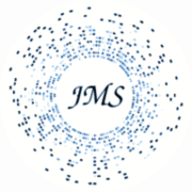
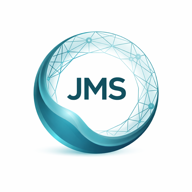
Update branding assets and switch to Umami analytics
- Replace favicon and app icons with new logo (center-cropped)
- Add favicon-16x16, favicon-32x32, favicon-48x48 PNG variants
- Update favicon.ico with multi-size format (16, 32, 48px)
- Regenerate apple-touch-icon (180x180) and PWA icons (192, 512)
- Convert new hero image to WebP (90% size reduction)
- Replace Plausible with Umami Cloud analytics (free tier)
- Update favicon references in all HTML templates

diff --git a/_layouts/post.html b/_layouts/post.html
@@ -7,8 +7,10 @@
   <meta name="viewport" content="width=device-width, initial-scale=1.0">
   <title>{{ page.title }} | {{ site.title }}</title>
   <meta name="description" content="{{ page.description | default: site.description }}">
-  <link rel="icon" href="{{ '/assets/img/apple-touch-icon.png' | relative_url }}">
-  <link rel="apple-touch-icon" href="{{ '/assets/img/apple-touch-icon.png' | relative_url }}">
+  <link rel="icon" type="image/x-icon" href="{{ '/assets/img/favicon.ico' | relative_url }}">
+  <link rel="icon" type="image/png" sizes="32x32" href="{{ '/assets/img/favicon-32x32.png' | relative_url }}">
+  <link rel="icon" type="image/png" sizes="16x16" href="{{ '/assets/img/favicon-16x16.png' | relative_url }}">
+  <link rel="apple-touch-icon" sizes="180x180" href="{{ '/assets/img/apple-touch-icon.png' | relative_url }}">
 
   <!-- Open Graph -->
   <meta property="og:title" content="{{ page.title }}">
@@ -419,14 +421,8 @@
       }
     }
   </style>
-  <!-- Privacy-friendly analytics by Plausible -->
-  <script async src="https://plausible.io/js/pa-2bTiM_XkGvY1gCv_2pJzp.js"></script>
-  <script>
-    window.plausible = window.plausible || function () { (plausible.q = plausible.q || []).push(arguments) }, plausible.init = plausible.init || function (i) { plausible.o = i || {} };
-    plausible.init();
-    // Track language
-    plausible('pageview', {props: {lang: '{{ lang }}'}});
-  </script>
+  <!-- Privacy-friendly analytics by Umami -->
+  <script defer src="https://cloud.umami.is/script.js" data-website-id="065913f4-78fe-490e-aa4a-a840fdcf56f1"></script>
 </head>
 <body>
   <header>

diff --git a/_layouts/blog.html b/_layouts/blog.html
@@ -7,8 +7,10 @@
   <meta name="viewport" content="width=device-width, initial-scale=1.0">
   <title>{{ t.blog.title }} | {{ site.title }}</title>
   <meta name="description" content="{{ t.blog.subtitle | default: site.description }}">
-  <link rel="icon" href="{{ '/assets/img/apple-touch-icon.png' | relative_url }}">
-  <link rel="apple-touch-icon" href="{{ '/assets/img/apple-touch-icon.png' | relative_url }}">
+  <link rel="icon" type="image/x-icon" href="{{ '/assets/img/favicon.ico' | relative_url }}">
+  <link rel="icon" type="image/png" sizes="32x32" href="{{ '/assets/img/favicon-32x32.png' | relative_url }}">
+  <link rel="icon" type="image/png" sizes="16x16" href="{{ '/assets/img/favicon-16x16.png' | relative_url }}">
+  <link rel="apple-touch-icon" sizes="180x180" href="{{ '/assets/img/apple-touch-icon.png' | relative_url }}">
 
   {% include head-hreflang.html %}
 
@@ -275,14 +277,8 @@
       }
     }
   </style>
-  <!-- Privacy-friendly analytics by Plausible -->
-  <script async src="https://plausible.io/js/pa-2bTiM_XkGvY1gCv_2pJzp.js"></script>
-  <script>
-    window.plausible = window.plausible || function () { (plausible.q = plausible.q || []).push(arguments) }, plausible.init = plausible.init || function (i) { plausible.o = i || {} };
-    plausible.init();
-    // Track language
-    plausible('pageview', {props: {lang: '{{ lang }}'}});
-  </script>
+  <!-- Privacy-friendly analytics by Umami -->
+  <script defer src="https://cloud.umami.is/script.js" data-website-id="065913f4-78fe-490e-aa4a-a840fdcf56f1"></script>
 </head>
 <body>
   <header>

diff --git a/_layouts/docs.html b/_layouts/docs.html
@@ -13,8 +13,10 @@
     <meta property="og:url" content="{{ page.url | absolute_url }}">
 
     <!-- Favicons -->
-    <link href="/assets/img/apple-touch-icon.png" rel="icon">
-    <link href="/assets/img/apple-touch-icon.png" rel="apple-touch-icon">
+    <link rel="icon" type="image/x-icon" href="/assets/img/favicon.ico">
+    <link rel="icon" type="image/png" sizes="32x32" href="/assets/img/favicon-32x32.png">
+    <link rel="icon" type="image/png" sizes="16x16" href="/assets/img/favicon-16x16.png">
+    <link rel="apple-touch-icon" sizes="180x180" href="/assets/img/apple-touch-icon.png">
 
     <!-- Google Fonts - Inter + JetBrains Mono for code -->
     <link rel="preconnect" href="https://fonts.googleapis.com">
@@ -341,12 +343,8 @@
         }
     </style>
 
-    <!-- Privacy-friendly analytics by Plausible -->
-    <script async src="https://plausible.io/js/pa-2bTiM_XkGvY1gCv_2pJzp.js"></script>
-    <script>
-        window.plausible = window.plausible || function () { (plausible.q = plausible.q || []).push(arguments) }, plausible.init = plausible.init || function (i) { plausible.o = i || {} };
-        plausible.init();
-    </script>
+    <!-- Privacy-friendly analytics by Umami -->
+    <script defer src="https://cloud.umami.is/script.js" data-website-id="065913f4-78fe-490e-aa4a-a840fdcf56f1"></script>
 </head>
 <body class="font-sans antialiased bg-gray-50 dark:bg-gray-900 text-gray-900 dark:text-white transition-colors duration-300">
 

diff --git a/en/index.html b/en/index.html
@@ -33,8 +33,10 @@ permalink: /en/
   {% include head-hreflang.html %}
 
   <!-- Favicons -->
-  <link href="/assets/img/apple-touch-icon.png" rel="icon">
-  <link href="/assets/img/apple-touch-icon.png" rel="apple-touch-icon">
+  <link rel="icon" type="image/x-icon" href="/assets/img/favicon.ico">
+  <link rel="icon" type="image/png" sizes="32x32" href="/assets/img/favicon-32x32.png">
+  <link rel="icon" type="image/png" sizes="16x16" href="/assets/img/favicon-16x16.png">
+  <link rel="apple-touch-icon" sizes="180x180" href="/assets/img/apple-touch-icon.png">
 
   <!-- PWA -->
   <link rel="manifest" href="/manifest.webmanifest">
@@ -118,14 +120,8 @@ permalink: /en/
     .dark .altmetric-embed svg path { filter: invert(1); }
   </style>
 
-  <!-- Privacy-friendly analytics by Plausible -->
-  <script async src="https://plausible.io/js/pa-2bTiM_XkGvY1gCv_2pJzp.js"></script>
-  <script>
-    window.plausible = window.plausible || function () { (plausible.q = plausible.q || []).push(arguments) }, plausible.init = plausible.init || function (i) { plausible.o = i || {} };
-    plausible.init();
-    // Track language
-    plausible('pageview', {props: {lang: 'en'}});
-  </script>
+  <!-- Privacy-friendly analytics by Umami -->
+  <script defer src="https://cloud.umami.is/script.js" data-website-id="065913f4-78fe-490e-aa4a-a840fdcf56f1"></script>
 
   <!-- Structured Data for SEO -->
   <script type="application/ld+json">

diff --git a/pt/index.html b/pt/index.html
@@ -33,8 +33,10 @@ permalink: /pt/
   {% include head-hreflang.html %}
 
   <!-- Favicons -->
-  <link href="/assets/img/apple-touch-icon.png" rel="icon">
-  <link href="/assets/img/apple-touch-icon.png" rel="apple-touch-icon">
+  <link rel="icon" type="image/x-icon" href="/assets/img/favicon.ico">
+  <link rel="icon" type="image/png" sizes="32x32" href="/assets/img/favicon-32x32.png">
+  <link rel="icon" type="image/png" sizes="16x16" href="/assets/img/favicon-16x16.png">
+  <link rel="apple-touch-icon" sizes="180x180" href="/assets/img/apple-touch-icon.png">
 
   <!-- PWA -->
   <link rel="manifest" href="/manifest.webmanifest">
@@ -118,14 +120,8 @@ permalink: /pt/
     .dark .altmetric-embed svg path { filter: invert(1); }
   </style>
 
-  <!-- Privacy-friendly analytics by Plausible -->
-  <script async src="https://plausible.io/js/pa-2bTiM_XkGvY1gCv_2pJzp.js"></script>
-  <script>
-    window.plausible = window.plausible || function () { (plausible.q = plausible.q || []).push(arguments) }, plausible.init = plausible.init || function (i) { plausible.o = i || {} };
-    plausible.init();
-    // Track language
-    plausible('pageview', {props: {lang: 'pt'}});
-  </script>
+  <!-- Privacy-friendly analytics by Umami -->
+  <script defer src="https://cloud.umami.is/script.js" data-website-id="065913f4-78fe-490e-aa4a-a840fdcf56f1"></script>
 
   <!-- Structured Data for SEO -->
   <script type="application/ld+json">

diff --git a/index.html b/index.html
@@ -5,7 +5,9 @@
   <meta name="viewport" content="width=device-width, initial-scale=1.0">
   <title>Jorge Miguel Silva | Redirecting...</title>
   <meta name="description" content="Postdoctoral Researcher in Bioinformatics, Genomics, and Federated Learning at IEETA, University of Aveiro.">
-  <link rel="icon" href="/assets/img/apple-touch-icon.png">
+  <link rel="icon" type="image/x-icon" href="/assets/img/favicon.ico">
+  <link rel="icon" type="image/png" sizes="32x32" href="/assets/img/favicon-32x32.png">
+  <link rel="apple-touch-icon" sizes="180x180" href="/assets/img/apple-touch-icon.png">
   <link rel="canonical" href="https://jorgemfs.com/en/">
   <link rel="alternate" hreflang="en" href="https://jorgemfs.com/en/">
   <link rel="alternate" hreflang="pt" href="https://jorgemfs.com/pt/">

diff --git a/_layouts/page.html b/_layouts/page.html
@@ -44,12 +44,8 @@
         .references { font-size: 0.9em; }
     .back-link { margin-bottom: 2rem; }
     </style>
-    <!-- Privacy-friendly analytics by Plausible -->
-    <script async src="https://plausible.io/js/pa-2bTiM_XkGvY1gCv_2pJzp.js"></script>
-    <script>
-        window.plausible = window.plausible || function () { (plausible.q = plausible.q || []).push(arguments) }, plausible.init = plausible.init || function (i) { plausible.o = i || {} };
-        plausible.init()
-    </script>
+    <!-- Privacy-friendly analytics by Umami -->
+    <script defer src="https://cloud.umami.is/script.js" data-website-id="065913f4-78fe-490e-aa4a-a840fdcf56f1"></script>
 </head>
 <body>
     <!-- Navigation -->

diff --git a/vcfx/index.html b/vcfx/index.html
@@ -866,12 +866,8 @@
         }
     </style>
 
-    <!-- Plausible Analytics -->
-    <script async src="https://plausible.io/js/pa-2bTiM_XkGvY1gCv_2pJzp.js"></script>
-    <script>
-        window.plausible = window.plausible || function () { (plausible.q = plausible.q || []).push(arguments) }, plausible.init = plausible.init || function (i) { plausible.o = i || {} };
-        plausible.init()
-    </script>
+    <!-- Privacy-friendly analytics by Umami -->
+    <script defer src="https://cloud.umami.is/script.js" data-website-id="065913f4-78fe-490e-aa4a-a840fdcf56f1"></script>
 </head>
 <body>
     <div class="bg-pattern"></div>

diff --git a/404.html b/404.html
@@ -98,12 +98,8 @@
     }
   </style>
 
-  <!-- Privacy-friendly analytics by Plausible -->
-  <script async src="https://plausible.io/js/pa-2bTiM_XkGvY1gCv_2pJzp.js"></script>
-  <script>
-    window.plausible = window.plausible || function () { (plausible.q = plausible.q || []).push(arguments) }, plausible.init = plausible.init || function (i) { plausible.o = i || {} };
-    plausible.init();
-  </script>
+  <!-- Privacy-friendly analytics by Umami -->
+  <script defer src="https://cloud.umami.is/script.js" data-website-id="065913f4-78fe-490e-aa4a-a840fdcf56f1"></script>
 </head>
 <body>
   <div class="container">
